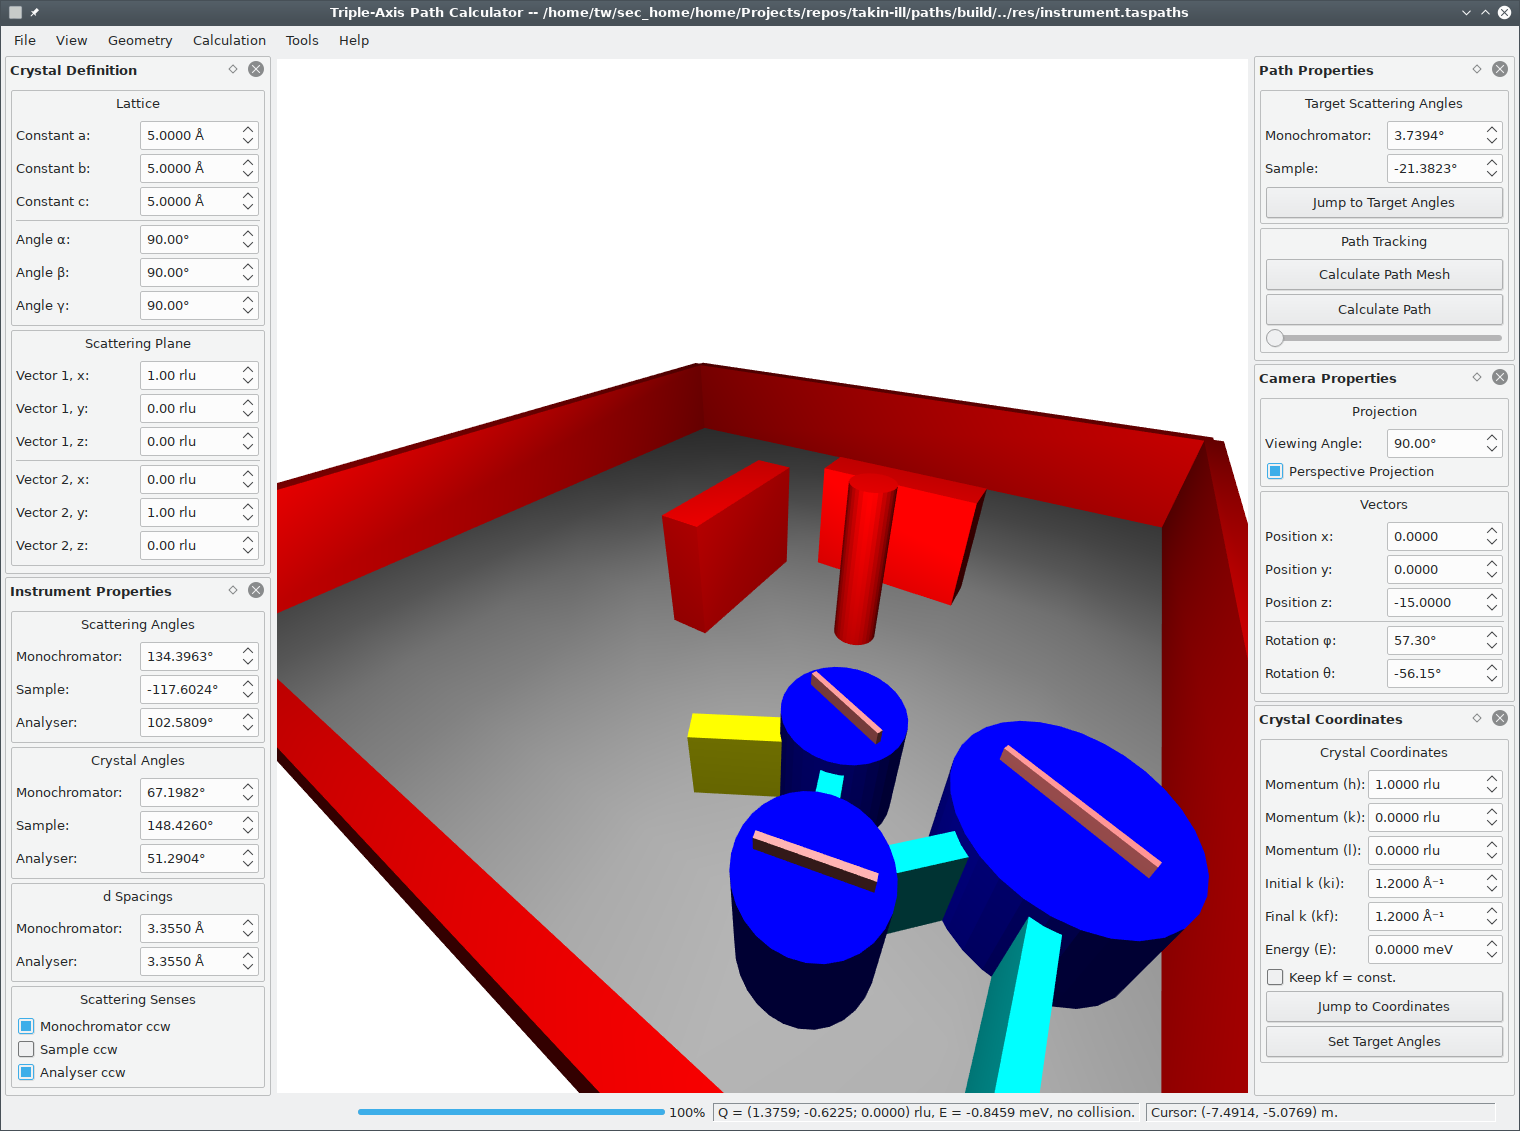
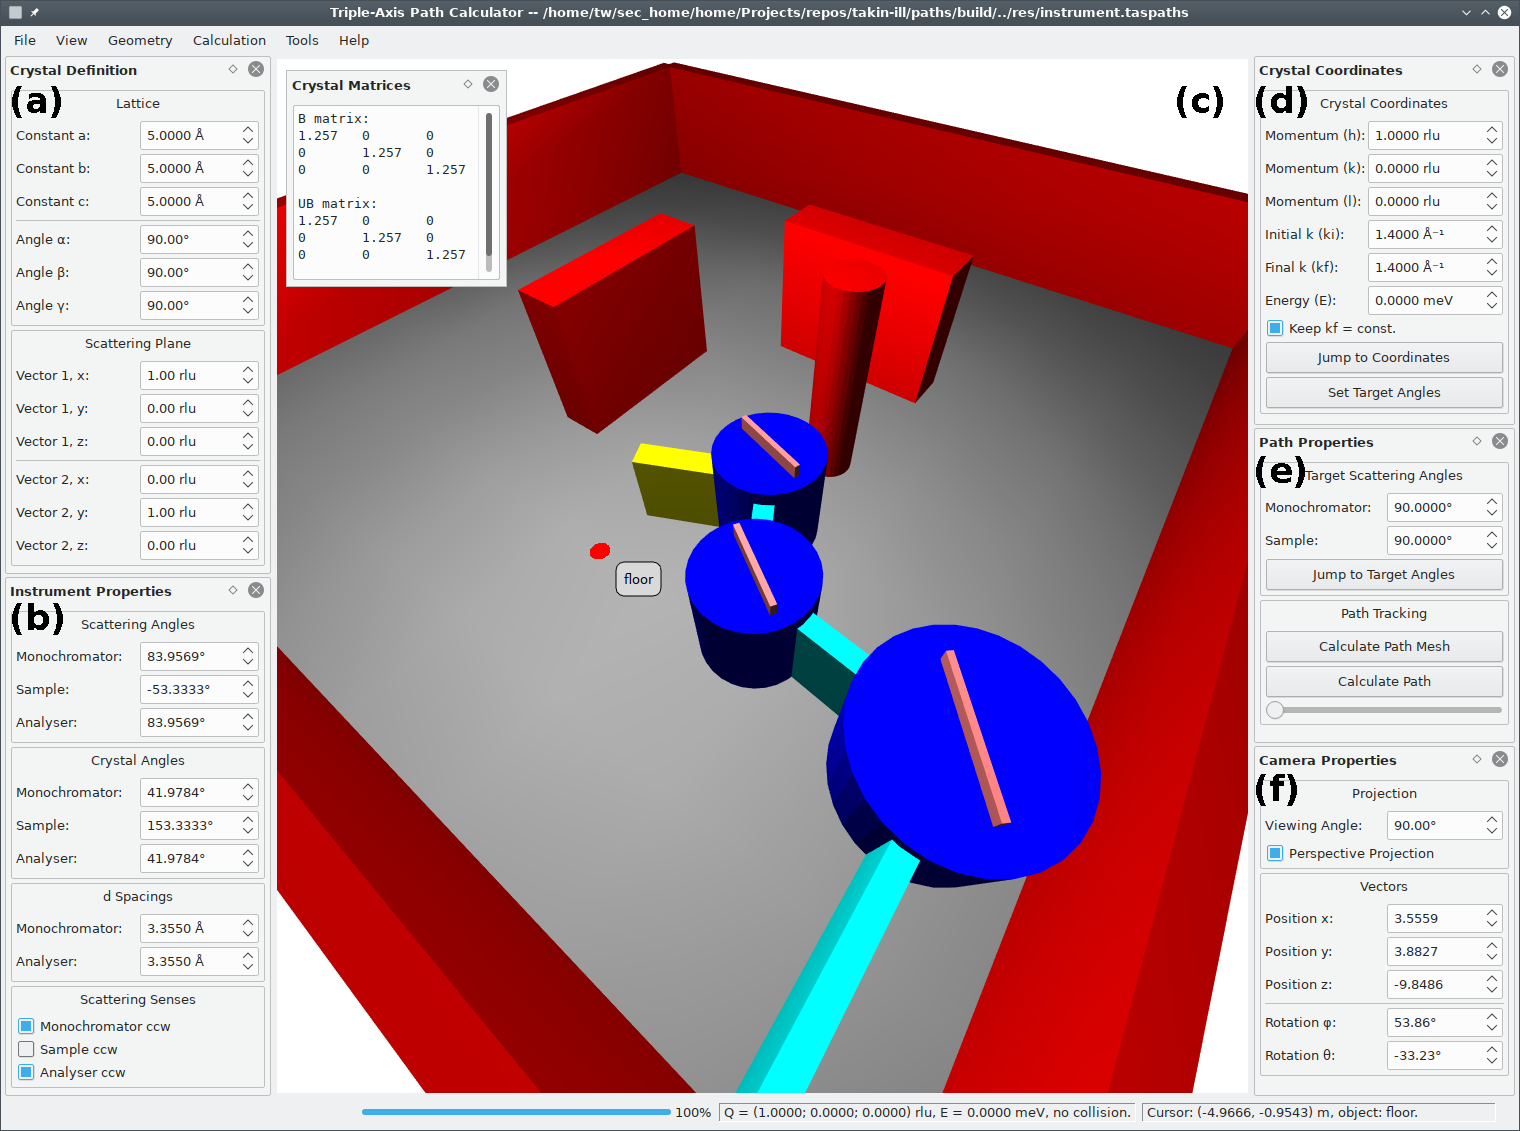
continued with gui

diff --git a/tex/interfaces.tex b/tex/interfaces.tex
@@ -71,7 +71,7 @@ as the \textit{Python} interface, which are described in the following sections.
 \label{sec:gui}
 
 The software's main graphical user interface (GUI), for which a typical session is depicted
-in Fig. \ref{fig:gui}, is based on the \textit{Qt} framework \cite{web_Qt}, which allows
+in Fig. \ref{fig:gui}, is based on the \textit{Qt} framework \cite{web_Qt}, that allows
 for an easy and rapid cross-platform GUI development in \textit{C++}. We support both
 current releases of \textit{Qt}, namely version 5 and version 6.
 Similar to the core calculation module, the GUI is written in the recent \textit{C++20}
@@ -88,20 +88,83 @@ source repository, see chapter \ref{ch:online} for more information.
 		The central view provides a three-dimensional visualisation of the instrument
 		configuration and is fully dynamic: Every element, including the instrument
 		and the wall segments, can be moved or manipulated using the mouse.
+		See the text for a description of each interface element.
 		\label{fig:gui}}
 \end{figure}
 
-The GUI allows the set-up of an instrument configuration and a crystal $UB$ matrix from a
-sample definition according to the formalism described in chapter \ref{ch:xtal}.
-All calculation is performed in the core module, which is described in chapter \ref{ch:impl}
-and to which the GUI is just that, an interface. By the same token, the core module itself is
-completely independent of the GUI, or any other interface code, and the full functionality
-of the software, except GUI-specific visualisations, is equally accessible from the other
-alternative interface modules, e.g. the \textit{Python} interface described in section
-\ref{sec:scripting}, or the raw \textit{C++} library interface. Graphical display of the
-instrument and the walls as well as the interaction with these elements is performed
-using \textit{OpenGL} \cite{web_OpenGL} via Qt's \lstinline[language=C++]|QOpenGLWidget|
-\cite{web_QOpenGLWidget} class.
+The functions of the individual control elements of the main GUI, which are marked as (a)-(f)
+is explained in the following sections. Each of the panels corresponds to a specific
+functionality. Hereby, all calculation is performed in the core module, which is described in
+chapter \ref{ch:impl} and to which the GUI is just that, an interface.
+By the same token, the core module itself is completely independent of the GUI, or any other
+interface code, and the full functionality of the software, except GUI-specific visualisations,
+is equally accessible from the other alternative interface modules, e.g. the \textit{Python}
+interface described in section \ref{sec:scripting}, or the raw \textit{C++} library interface.
+
+
+\subsection{Crystal definition dock window}
+\begin{wrapfigure}{r}{0.46 \textwidth}
+	\vspace{-0.5cm}
+	\includegraphics[width = 0.45 \textwidth]{figures/gui_xtal}
+	\caption[Crystal definition window]{Crystal definition window (a).
+		\label{fig:gui_xtal}}
+\end{wrapfigure}
+
+Dock window (a) of the main GUI (Fig. \ref{fig:gui}) sets up the crystal $UB$ matrix
+from a sample definition according to the formalism described in chapter \ref{ch:xtal}.
+The window is magnified in Fig. \ref{fig:gui_xtal}. As seen before, this matrix transforms
+the crystal coordinate system into the instrument's laboratory coordinate system.
+The necessary information for the $B$ matrix comprise the axis lengths of the sample lattice's
+unit cell as well as the axis angles for the non-Cartesian crystal coordinate system.
+The $UB$ matrix rotates the crystal coordinate system so that the $x$ and $y$ axes correspond
+to the 2-d scattering plane accessible by the instrument, see chapter \ref{ch:xtal}
+for more information.
+Finally, the $B$ and $UB$ matrices for the entered crystal information are shown in the
+floating window right of (a).
+
+
+\subsection{Instrument properties dock window}
+%\begin{wrapfigure}{l}{0.26 \textwidth}
+%	\vspace{-0.5cm}
+%	\includegraphics[width = 0.25 \textwidth]{figures/gui_instrument}
+%	\caption[Instrument properties window]{Crystal properties window (b).
+%		\label{fig:gui_xtal}}
+%\end{wrapfigure}
+
+
+\subsection{Main workspace}
+
+The largest portion of the screen is reserved for the workspace.
+A typical view is shown in element (c) of Fig. \ref{fig:gui}.
+Here, a graphical representation of the instrument and the walls as well as the interaction
+with these elements is performed using \textit{OpenGL} \cite{web_OpenGL} via \textit{Qt}'s
+\lstinline[language=C++]|QOpenGLWidget| \cite{web_QOpenGLWidget} class.
+The current view of the instrument is controlled by moving the mouse while holding the right button.
+The camera position, viewing angle and direction as well as the kind of projection are displayed in dock
+window (f) and can also be entered directly.
+The workspace is not restricted to a passive view of the instrument, but also functions as an editor.
+as it allows for an easy insertion, editing and removal of wall segments. The segments as well as the
+instrument axes themselves can be dynamically moved by dragging them using the mouse.
+
+
+\subsection{Crystal coordinates dock window}
+
+%\begin{wrapfigure}{r}{0.26 \textwidth}
+%	\vspace{-0.5cm}
+%	\includegraphics[width = 0.25 \textwidth]{figures/gui_xtalcoords}
+%	\caption[Crystal coordinates window]{Crystal coordinates window (d).
+%		\label{fig:gui_xtal}}
+%\end{wrapfigure}
+
+
+\subsection{Path properties dock window}
+
+%\begin{wrapfigure}{l}{0.26 \textwidth}
+%	\vspace{-0.5cm}
+%	\includegraphics[width = 0.25 \textwidth]{figures/gui_path}
+%	\caption[Path properties window]{Path properties window (e).
+%		\label{fig:gui_xtal}}
+%\end{wrapfigure}
 
 
 
@@ -109,9 +172,10 @@ using \textit{OpenGL} \cite{web_OpenGL} via Qt's \lstinline[language=C++]|QOpenG
 		\begin{center}
 			\includegraphics[width = 0.66 \textwidth]{figures/gui_configspace}
 		\end{center}
-	\caption[Configuration space dialog.]{Angular configuration space and path calculation. The figure plots all
-	possible instrument positions for the monochromator and sample scattering angles,
-	$2\theta_M$ and $2\theta_S$, respectively. Forbidden positions are shown in red.
+	\caption[Configuration space dialog.]{Angular configuration space and path calculation.
+	The figure plots all possible instrument positions for the monochromator and sample
+	scattering angles, $2\theta_M$ and $2\theta_S$, respectively. Forbidden positions
+	are shown in red.
 	These can be invalid angles as well as collisions of the instrument with walls
 	(here, specifically, the pillar from Fig \ref{fig:gui}), or with itself.
 	Allowed positions are drawn in blue. The mesh of all possible instrument

diff --git a/tex/thesis.tex b/tex/thesis.tex
@@ -16,9 +16,12 @@
 \usepackage{bm}
 \usepackage{siunitx}
 \usepackage{graphicx}
+\usepackage{wrapfig}
+%\usepackage{picins}
 \usepackage[section]{placeins}
 \usepackage{babel}
 \usepackage[hyphens]{url}
+\usepackage[shortlabels]{enumitem}
 \usepackage{listings}
 \usepackage[numbib, chapter]{tocbibind}
 \usepackage[colorlinks=true, linkcolor=black, citecolor=blue, urlcolor=blue, unicode=true]{hyperref}
